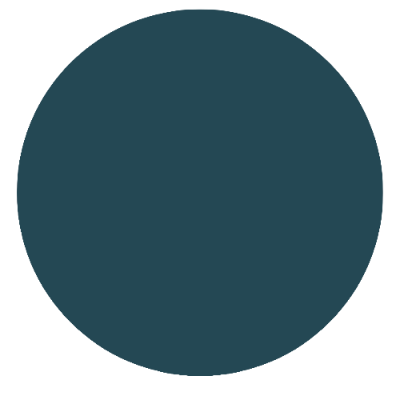
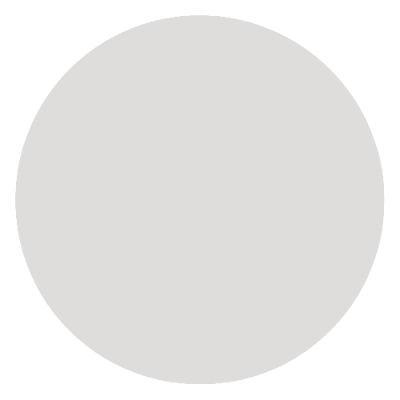
adicionando `nova seção`

diff --git a/app/page.tsx b/app/page.tsx
@@ -1,4 +1,5 @@
 import { Hero } from "@/src/components/hero/Hero";
+import Image from "next/image";
 
 export default function Home() {
   return (
@@ -38,6 +39,40 @@ export default function Home() {
             <img src="/assets/banner.png" alt="" width={140} />
             <img src="/assets/banner.png" alt="" width={140} />
           </div>
+        </div>
+      </section>
+
+      <section className="flex flex-col items-center gap-6 text-center">
+        <div>
+          <Image
+            src="/assets/hero/hero.png"
+            alt="imagem de um iPhone"
+            width={839}
+            height={644}
+          />
+        </div>
+
+        <div className="flex flex-col items-center justify-center">
+          <div className="flex items-center gap-2">
+            <Image
+              src="/icone.png"
+              alt="logo Apple Watch"
+              width={30}
+              height={30}
+            />
+            <p className="uppercase">Watch Ultra 3</p>
+          </div>
+
+          <p className="text-lg font-semibold">Imparável.</p>
+        </div>
+
+        <div className="h-20 flex items-center w-full justify-around bg-gray-100">
+          <p className="font-bold w-52 text-start text-gray-800">
+            A partir de R$ 874,92/mês ou R$ 10.499*
+          </p>
+          <button className="text-white h-9 w-24 bg-blue-500 rounded-full">
+            Comprar
+          </button>
         </div>
       </section>
     </div>

diff --git a/src/components/hero/Hero.tsx b/src/components/hero/Hero.tsx
@@ -1,6 +1,6 @@
 export const Hero = () => {
   return (
-    <div className="hero max-w-7xl w-full py-10 px-8 mx-auto flex flex-col-reverse items-center gap-10 overflow-hidden xl:flex-row xl:justify-between">
+    <div className="hero max-w-7xl w-full py-10 px-8 mx-auto flex flex-col-reverse items-center gap-10 overflow-visible xl:overflow-hidden xl:flex-row xl:justify-between">
       <div className="inicio flex flex-col items-center gap-7 xl:items-start">
         <h1 className="max-w-2xl text-center xl:text-start">
           Apple Watch Ultra 3
@@ -11,10 +11,12 @@ export const Hero = () => {
             <span className="text-(--snitap-sky-mid)">imparável</span>
           </div>
         </h1>
+
         <div className="buttons flex flex-col gap-8 mt-12 xl:flex-row">
           <a href="#" className="button buy shadow">
             <img src="/assets/icons/shopping-bag.svg" alt="" /> COMPRAR AGORA
           </a>
+
           <a href="#" className="button play">
             <span className="shadow">
               <img src="/assets/icons/play.svg" alt="" />
@@ -23,6 +25,7 @@ export const Hero = () => {
           </a>
         </div>
       </div>
+
       <div className="block w-full max-w-96 h-[420px]">
         <div className="content w-full h-full relative">
           <img src="/assets/hero/Ellipse.png" alt="" />
